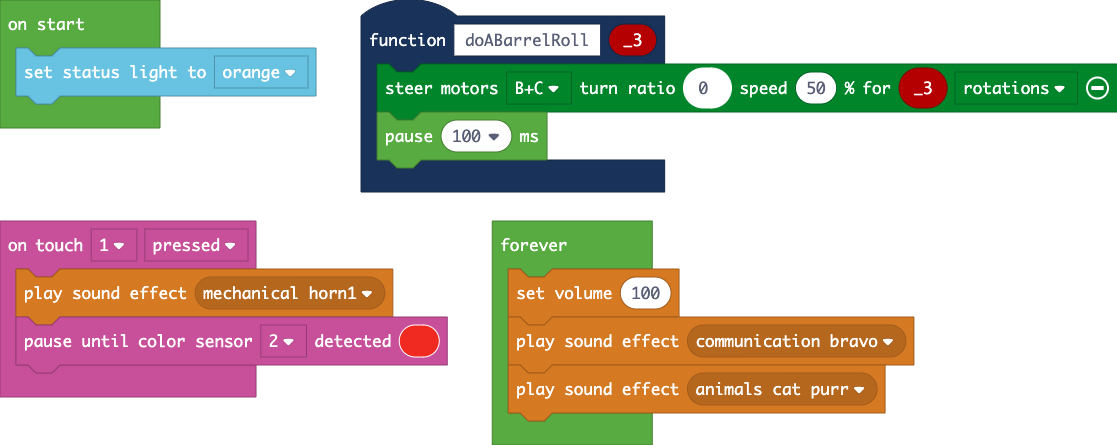
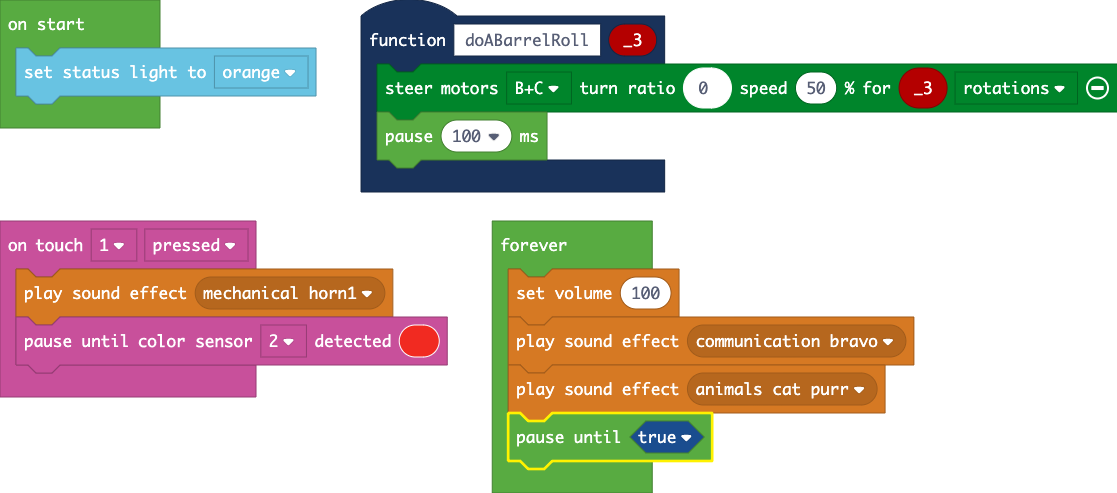
Update main.blocks, main.ts

Changed region(s): [[0.3044, 0.0292, 1.0, 0.964], [0.0, 0.4382, 0.4261, 0.9056], [0.0, 0.0292, 0.3044, 0.2921]]

diff --git a/main.ts b/main.ts
@@ -11,4 +11,5 @@ forever(function () {
     music.setVolume(100)
     music.playSoundEffect(sounds.communicationBravo)
     music.playSoundEffect(sounds.animalsCatPurr)
+    pauseUntil(() => true)
 })
